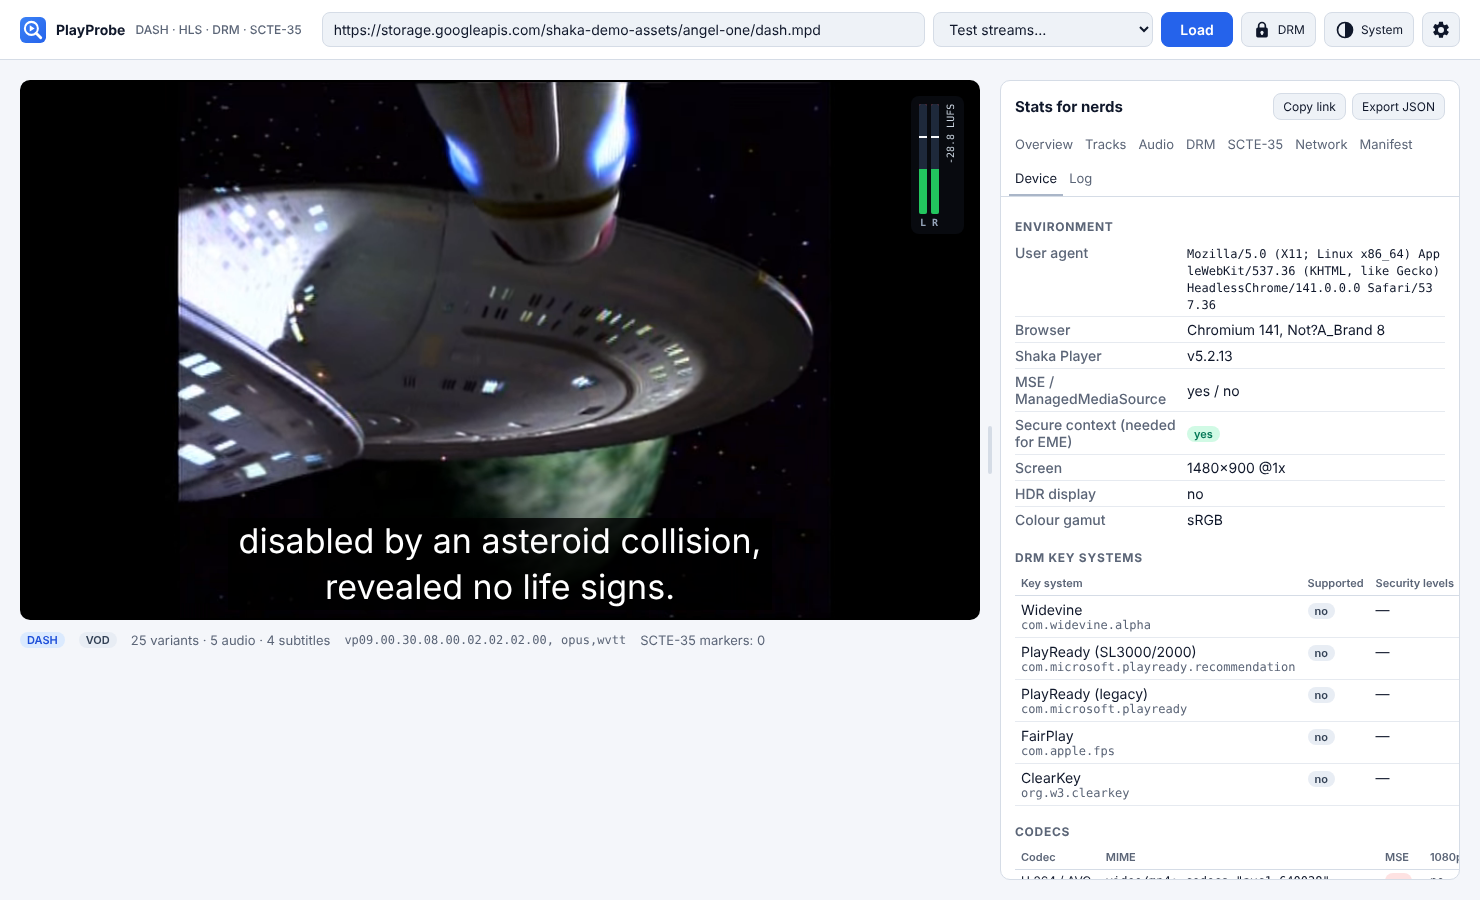
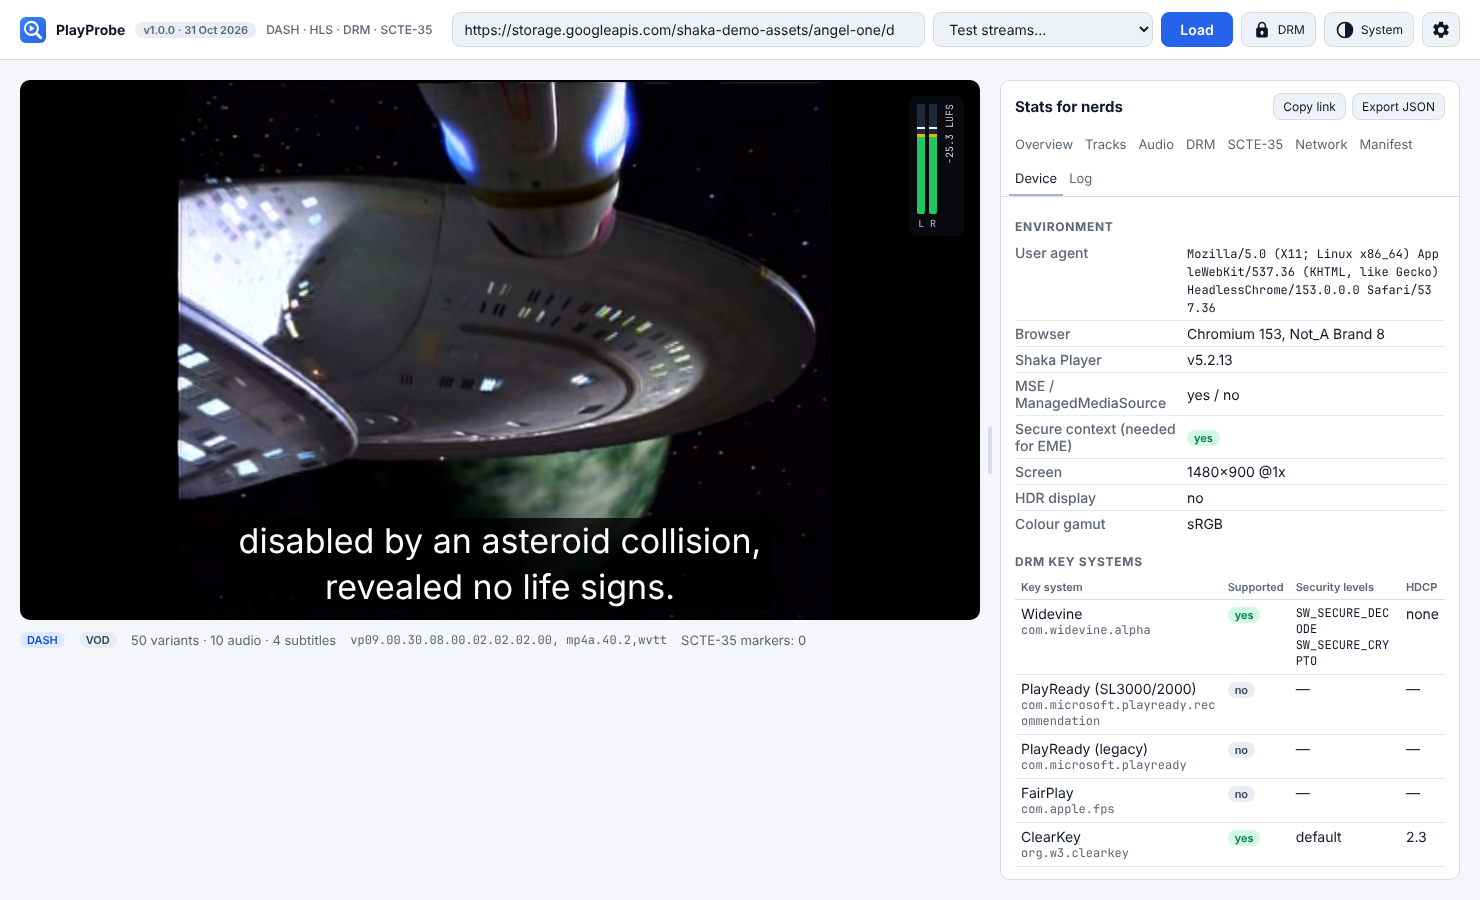
Pre-launch review: fix cut-off stats and stale README text
- Overview graph legend wraps instead of being cut off.
- Device tab: security levels one per line and long key-system names
  wrap, so the HDCP column stays visible.
- DRM tab: Details column wraps between words.
- README: drop outdated "DRM comes in the next iteration" notes, fix the
  production branch, tab count and screenshot note.
- Regenerate all screenshots (now show the version badge).

Claude-Session: https://claude.ai/code/session_01A39yPdb4MvZSNEj6VRWZpP

diff --git a/src/ui/chart.ts b/src/ui/chart.ts
@@ -29,7 +29,24 @@ export function drawChart(canvas: HTMLCanvasElement, samples: Sample[]): void {
   ctx.scale(dpr, dpr);
   ctx.clearRect(0, 0, w, hgt);
 
-  const pad = { l: 8, r: 8, t: 22, b: 8 };
+  // Legend first: wrap onto extra rows when the panel is too narrow for one line.
+  ctx.font = '11px system-ui, sans-serif';
+  const last = samples.at(-1);
+  const legend: { series: Series; text: string; x: number; row: number }[] = [];
+  let legendX = 8;
+  let row = 0;
+  for (const series of SERIES) {
+    const text = `${series.label}: ${last ? series.format(series.value(last)) : '—'}`;
+    const itemW = ctx.measureText(text).width + 12;
+    if (legendX > 8 && legendX + itemW > w - 8) {
+      legendX = 8;
+      row++;
+    }
+    legend.push({ series, text, x: legendX, row });
+    legendX += itemW + 12;
+  }
+
+  const pad = { l: 8, r: 8, t: 22 + row * 16, b: 8 };
   const plotW = w - pad.l - pad.r;
   const plotH = hgt - pad.t - pad.b;
 
@@ -52,8 +69,6 @@ export function drawChart(canvas: HTMLCanvasElement, samples: Sample[]): void {
   // Fill the width quickly after load, then scroll through the last 3 minutes.
   const n = Math.max(60, samples.length);
 
-  ctx.font = '11px system-ui, sans-serif';
-  let legendX = pad.l;
   for (const series of SERIES) {
     const max = series.secondary ? maxSecondary : maxPrimary;
     ctx.strokeStyle = series.color;
@@ -67,13 +82,13 @@ export function drawChart(canvas: HTMLCanvasElement, samples: Sample[]): void {
       else ctx.lineTo(x, y);
     });
     ctx.stroke();
+  }
 
-    const last = samples.at(-1);
-    const text = `${series.label}: ${last ? series.format(series.value(last)) : '—'}`;
-    ctx.fillStyle = series.color;
-    ctx.fillRect(legendX, 7, 8, 8);
+  for (const item of legend) {
+    const y = item.row * 16;
+    ctx.fillStyle = item.series.color;
+    ctx.fillRect(item.x, 7 + y, 8, 8);
     ctx.fillStyle = labelColor;
-    ctx.fillText(text, legendX + 12, 15);
-    legendX += ctx.measureText(text).width + 24;
+    ctx.fillText(item.text, item.x + 12, 15 + y);
   }
 }

diff --git a/src/ui/stats/device.ts b/src/ui/stats/device.ts
@@ -3,8 +3,8 @@ import { badge, dataTable, h, kvTable } from '../dom';
 
 /**
  * Device capabilities: codec support (MSE + MediaCapabilities), DRM key
- * systems and security levels, HDCP and display. Useful now to understand
- * what a device can play, and the groundwork for the DRM iteration.
+ * systems and security levels, HDCP and display. Shows what this
+ * device can play, and which DRM it supports.
  */
 
 const CODECS: [string, string][] = [
@@ -124,7 +124,7 @@ export class DeviceTab {
     const codecRows = await Promise.all(
       CODECS.map(async ([name, type]) => {
         const mse = window.MediaSource?.isTypeSupported(type) ?? false;
-        return [name, h('span', { class: 'mono small' }, type), badge(mse ? 'yes' : 'no', mse ? 'ok' : 'warn'), await mediaCapabilities(type)];
+        return [name, h('span', { class: 'mono small break' }, type), badge(mse ? 'yes' : 'no', mse ? 'ok' : 'warn'), await mediaCapabilities(type)];
       }),
     );
     const drm = await Promise.all(KEY_SYSTEMS.map(probeKeySystem));
@@ -146,9 +146,10 @@ export class DeviceTab {
       dataTable(
         ['Key system', 'Supported', 'Security levels', 'HDCP'],
         drm.map((d) => [
-          h('span', null, d.name, h('div', { class: 'mono small muted' }, d.keySystem)),
+          h('span', null, d.name, h('div', { class: 'mono small muted wrap' }, d.keySystem)),
           badge(d.supported ? 'yes' : 'no', d.supported ? 'ok' : ''),
-          d.levels.join(', ') || (d.supported ? 'default' : '—'),
+          // One level per line, so long names like SW_SECURE_DECODE don't push the HDCP column out of view.
+          d.levels.length ? d.levels.map((l) => h('div', { class: 'mono small wrap' }, l)) : d.supported ? 'default' : '—',
           d.hdcp ?? '—',
         ]),
       ),

diff --git a/src/ui/stats/drm.ts b/src/ui/stats/drm.ts
@@ -84,7 +84,7 @@ export class DrmTab {
           d.system,
           d.scheme ?? '—',
           h('span', { class: 'mono small' }, d.keyIds.length ? d.keyIds.map(formatKid).join('\n') : '—'),
-          h('span', { class: 'small break' }, d.details.join(' · ') || '—'),
+          h('span', { class: 'small wrap' }, d.details.join(' · ') || '—'),
         ]),
         'compact drm-declared',
       ),

diff --git a/src/styles.css b/src/styles.css
@@ -198,6 +198,11 @@ code,
   word-break: break-all;
 }
 
+/* Wraps at spaces first, and inside a long word only when it can't fit. */
+.wrap {
+  overflow-wrap: anywhere;
+}
+
 .error {
   color: var(--danger);
 }

diff --git a/README.md b/README.md
@@ -158,7 +158,7 @@ In the Cloudflare dashboard go to **Workers & Pages → Create → Import a repo
 
 Under **Advanced settings → Build variables**, nothing is required. The build uses Node 22 from `.nvmrc`. If your build image ignores `.nvmrc`, add `NODE_VERSION` = `22`.
 
-**Production branch:** Cloudflare deploys the repository's default branch, currently `claude/brave-brown-gye24p` (the only branch). After you merge into `main`, change it in **Settings → Build → Branch control**.
+**Production branch:** `main`. If Cloudflare picked a different branch, change it in **Settings → Build → Branch control**.
 
 Press **Deploy**. The app will be available at `https://simple-abr-player.<your-subdomain>.workers.dev`. Every push to the production branch redeploys it automatically.
 
@@ -213,7 +213,7 @@ To try the Worker locally with the same runtime Cloudflare uses: `npm run build 
 
 ## Screenshots
 
-> Captured with `npm run screenshots` in **headless Chromium**. That browser has no H.264/AAC codecs and no DRM, which is why the Device tab shows them as unsupported. In regular Chrome, Edge or Safari they show as supported.
+> Captured with `npm run screenshots` in **headless Chromium** on Linux. The codec and DRM support shown in the Device tab is that browser's; Chrome, Edge or Safari on your machine will show their own.
 
 **SCTE-35 tab during an ad break (DASH sample)**: ad-break banner on the video, markers and break regions on the seek bar, the marker list, and the decoded detail of an in-band `time_signal`.
 ![SCTE-35](docs/screenshots/scte-dash.png)
@@ -370,12 +370,12 @@ Notes:
 
 ## Architecture
 
-The app is plain TypeScript with no UI framework, built with **Vite**. Playback uses **[Shaka Player](https://github.com/shaka-project/shaka-player)**: one engine for both DASH and HLS, and one that already supports Widevine, PlayReady and FairPlay for the DRM iteration.
+The app is plain TypeScript with no UI framework, built with **Vite**. Playback uses **[Shaka Player](https://github.com/shaka-project/shaka-player)**: one engine for both DASH and HLS, and with built-in support for Widevine, PlayReady and FairPlay.
 
 ```mermaid
 flowchart LR
   subgraph Browser
-    UI["UI<br/>main.ts · controls · seek bar<br/>stats panel (7 tabs) · overlay"]
+    UI["UI<br/>main.ts · controls · seek bar<br/>stats panel (9 tabs) · overlay"]
     PC["PlayerController<br/>player/controller.ts"]
     SM["ScteMonitor<br/>scte/monitor.ts"]
     DEC["SCTE-35 decoder<br/>scte/scte35.ts"]
@@ -451,7 +451,7 @@ sequenceDiagram
 
 ### Design choices
 
-- **Shaka Player rather than hls.js + dash.js:** one engine and one set of track and stats APIs for both formats, and its DRM support carries over directly to the next iteration.
+- **Shaka Player rather than hls.js + dash.js:** one engine and one set of track and stats APIs for both formats, and built-in DRM support (used for Widevine and FairPlay).
 - **The app reads HLS playlists itself:** Shaka only reports `EXT-X-DATERANGE`, and only when the playlist has `PROGRAM-DATE-TIME`. Reading the playlist text catches every tag style, and costs nothing extra because it reuses the responses Shaka already downloaded.
 - **Proxy that keeps the URL path:** relative URLs in the manifest keep working without rewriting the manifest, and the same approach works for every request type.
 - **No UI framework:** keeps the app small and quick to load. Each part is a plain class with a `render()` method.
@@ -476,7 +476,7 @@ sequenceDiagram
 │   ├── audio/                 Audio meters: DSP, loudness, fMP4 reader, WebCodecs + Web Audio sources
 │   ├── drm/                   DRM settings, license request/response formats, protection parsing, monitor
 │   ├── ui/                    Controls, seek bar, chart, helpers
-│   │   └── stats/             Overview, Tracks, SCTE-35, Network, Manifest, Device, Log tabs
+│   │   └── stats/             One file per tab (Overview, Tracks, Audio, DRM, SCTE-35, …)
 │   ├── presets.ts             Test stream list
 │   ├── settings.ts            Saved settings / history
 │   └── styles.css
@@ -553,7 +553,6 @@ VP9/Opus is used so the sample also plays in open-source Chromium, which is used
 | --- | --- |
 | `Shaka error 1002 HTTP_ERROR` | Usually CORS or a network failure. With `npm run dev`, set the proxy to **Auto** or **Always**. Check the **Network** tab for the failing URL and status. |
 | `4032 CONTENT_UNSUPPORTED_BY_BROWSER` | The browser can't decode those codecs (for example HEVC in Firefox, or H.264 in headless Chromium). The **Device** tab shows what this device supports. |
-| `6001` / `6007` (DRM) | The stream is encrypted. DRM comes in the next iteration. |
 | Nothing plays from a deployed `https://` site | The stream is `http://` (blocked as mixed content) or doesn't allow browser access. Run locally with `npm run dev`. |
 | Proxy can't reach the origin behind a corporate proxy | Set `HTTPS_PROXY` (and `NODE_EXTRA_CA_CERTS` if your company inspects HTTPS) before `npm run dev`. |
 | On Cloudflare, a stream fails with a CORS error and the app doesn't offer the proxy | The proxy is off on the Worker. Set `PROXY_ENABLED=true` (and `PROXY_ALLOWED_HOSTS`), then redeploy. Check with `/__proxy/health`. |
@@ -601,4 +600,3 @@ To release a version:
 
 Third-party components keep their own licenses. In particular, [Shaka Player](https://github.com/shaka-project/shaka-player) is Apache-2.0, and the public test streams listed in the app belong to their respective owners. The bundled sample stream in `public/samples/` is generated by this project (`npm run sample`) and is covered by the MIT license.
 
-<!-- deploy trigger -->

diff --git a/CHANGELOG.md b/CHANGELOG.md
@@ -6,6 +6,13 @@ The format follows [Keep a Changelog](https://keepachangelog.com/en/1.1.0/), and
 
 ## [Unreleased]
 
+### Fixed
+
+- Overview graph: the legend wraps onto a second line instead of being cut off in a narrow stats panel.
+- Device tab: Widevine security levels are listed one per line and long key-system names wrap, so the HDCP column is no longer pushed out of view.
+- DRM tab: the Details column wraps between words instead of splitting them.
+- README: removed outdated notes that DRM was still to come, and corrected the production branch and tab count.
+
 ## [1.0.0] - 2026-10-31
 
 First release.
